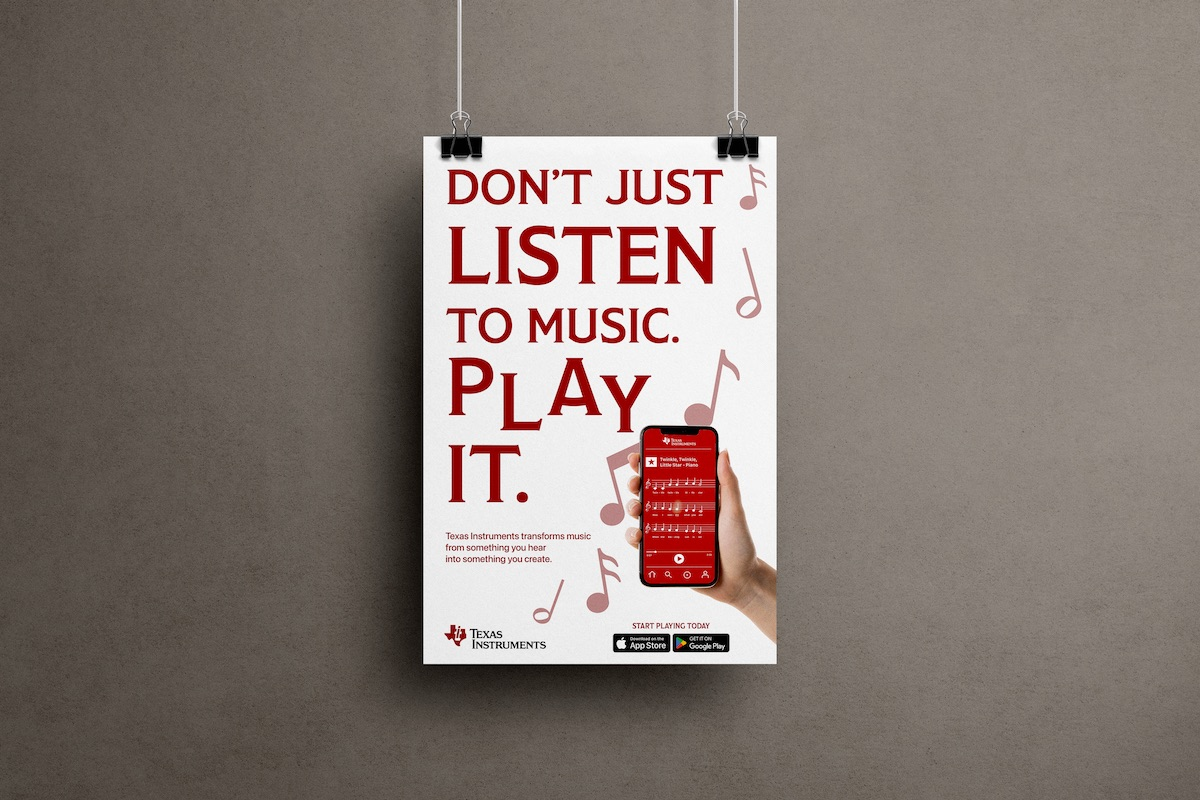
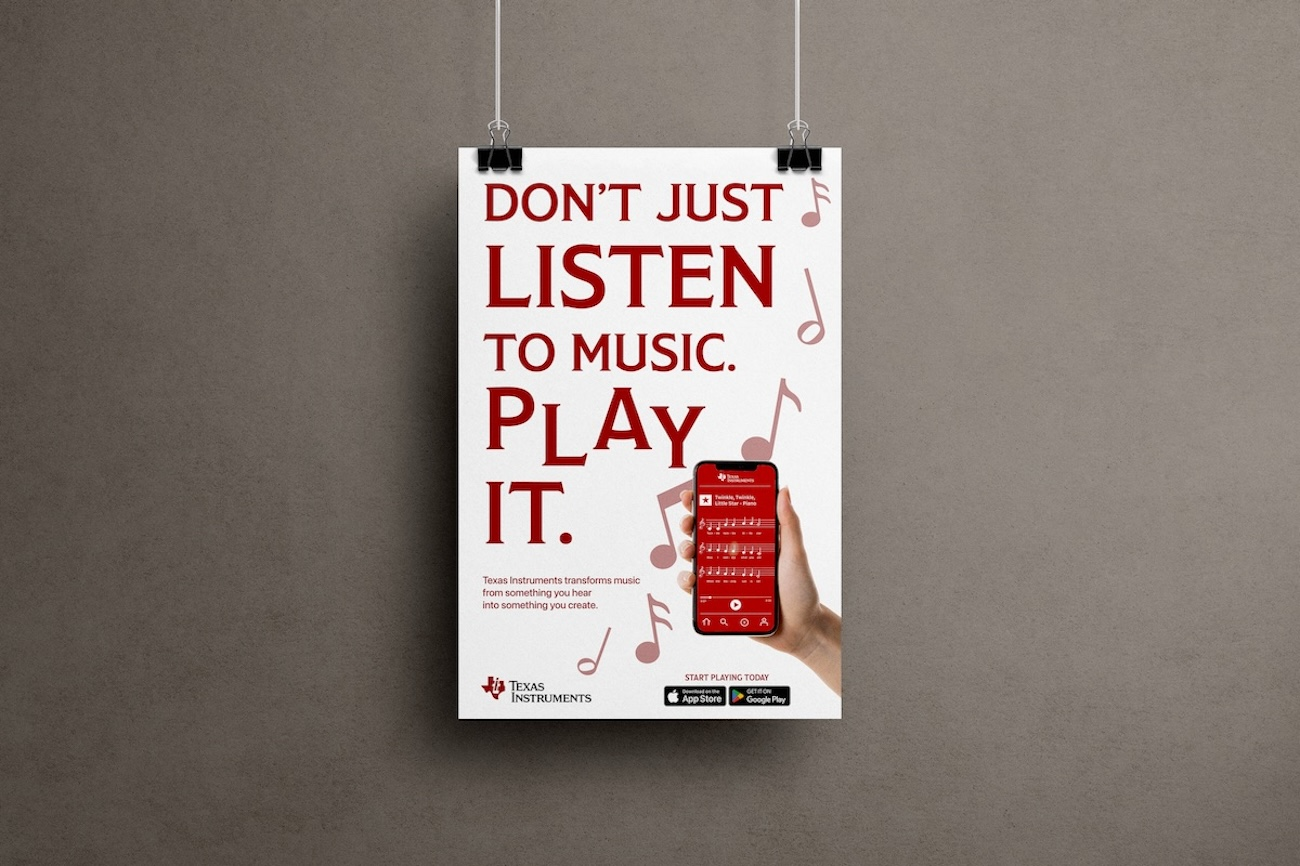
remade alt tags to be more specific

diff --git a/index.html b/index.html
@@ -60,7 +60,7 @@
     <img
       class="nav-mark"
       src="Images/logo-GiuliaGuerini.png"
-      alt="Giulia Guerini logo"
+      alt="Giulia Guerini homepage link"
     >
   </a>
 
@@ -98,31 +98,31 @@
   <img
     class="hero-carousel-image active"
     src="Images/Giulia-portrait.JPG"
-    alt="Giulia Guerini portrait"
+    alt="Portrait of graphic designer Giulia Guerini"
   >
 
   <img
     class="hero-carousel-image"
     src="Images/ti-mockup-main.jpeg"
-    alt="Texas Instruments poster mockup"
+    alt="Texas Instruments SyncPlay campaign poster displayed in a mockup"
   >
 
   <img
     class="hero-carousel-image"
     src="Images/odc-mockup-main-1.jpg"
-    alt="Ottawa Design Club zine mockup"
+    alt="Ottawa Design Club Metamorphosis editorial zine mockup"
   >
 
   <img
     class="hero-carousel-image"
     src="Images/prada-mockup-main.jpeg"
-    alt="The Devil Wears Prada poster mockup"
+    alt="The Devil Wears Prada posterfeaturing a custom typeface"
   >
 
   <img
     class="hero-carousel-image"
     src="Images/rj-mockup-main-1.jpg"
-    alt="Rio de Janeiro brochure mockup"
+    alt="Tri-fold tourism brochure promoting Rio de Janeiro"
   >
 
 </div>
@@ -179,7 +179,7 @@
         <img
           class="project-card-image"
           src="Images/ti-mockup-main.jpeg"
-          alt="Texas Instruments poster mockup"
+          alt="Texas Instruments SyncPlay campaign hero mockup"
         >
 
         <div class="project-bottom-label">
@@ -200,7 +200,7 @@
         <img
           class="project-card-image"
           src="Images/odc-mockup-main.jpeg"
-          alt="Ottawa Design Club zine mockup"
+          alt="Ottawa Design Club Metamorphosis editorial zine mockup"
         >
 
         <div class="project-bottom-label">
@@ -221,7 +221,7 @@
         <img
           class="project-card-image"
           src="Images/prada-mockup-main.jpeg"
-          alt="The Devil Wears Prada poster mockup"
+          alt="The Devil Wears Prada poster featuring a custom typeface"
         >
 
         <div class="project-bottom-label">
@@ -242,7 +242,7 @@
         <img
           class="project-card-image"
           src="Images/rj-mockup-main.jpeg"
-          alt="Rio de Janeiro brochure mockup"
+          alt="Tri-fold tourism brochure promoting Rio de Janeiro"
         >
 
         <div class="project-bottom-label">

diff --git a/odc.html b/odc.html
@@ -57,7 +57,7 @@
   <a class="nav-logo" href="index.html">Giulia Guerini</a>
 
   <a href="index.html" aria-label="Go to homepage">
-    <img class="nav-mark" src="Images/logo-GiuliaGuerini.png" alt="Giulia Guerini logo">
+    <img class="nav-mark" src="Images/logo-GiuliaGuerini.png" alt="Giulia Guerini homepage link">
   </a>
 
   <ul class="nav-links">
@@ -101,7 +101,7 @@
     <img
       class="project-detail-main-image"
       src="Images/odc-mockup-main.jpeg"
-      alt="Ottawa Design Club Zine"
+      alt="Ottawa Design Club Metamorphosis editorial zine mockup"
     >
   </section>
 
@@ -130,19 +130,19 @@
 
   <section class="project-detail-gallery">
     <div class="gallery-panel">
-      <img src="Images/ODC-Mockup-Cover.jpeg" alt="ODC Mockup Cover">
+      <img src="Images/ODC-Mockup-Cover.jpeg" alt="Ottawa Design Club Metamorphosis editorial zine cover mockup">
     </div>
 
     <div class="gallery-panel">
-      <img src="Images/ODC-Mockup-LeaMoreau.jpeg" alt="ODC Mockup Profile 1">
+      <img src="Images/ODC-Mockup-LeaMoreau.jpeg" alt="Ottawa Design Club Metamorphosis editorial zine artist profile mockup Lea Moreau">
     </div>
 
     <div class="gallery-panel">
-      <img src="Images/ODC-Mockup-SophieChen.jpeg" alt="ODC Mockup Profile 2">
+      <img src="Images/ODC-Mockup-SophieChen.jpeg" alt="Ottawa Design Club Metamorphosis editorial zine artist profile mockup Sophie Chen">
     </div>
 
     <div class="gallery-panel">
-      <img src="Images/ODC-Mockup-ThomasBeaumont.jpeg" alt="ODC Mockup Profile 3">
+      <img src="Images/ODC-Mockup-ThomasBeaumont.jpeg" alt="Ottawa Design Club Metamorphosis editorial zine artist profile mockup Thomas Beaumont">
     </div>
   </section>
 

diff --git a/prada.html b/prada.html
@@ -56,7 +56,7 @@
   <a class="nav-logo" href="index.html">Giulia Guerini</a>
 
   <a href="index.html" aria-label="Go to homepage">
-    <img class="nav-mark" src="Images/logo-GiuliaGuerini.png" alt="Giulia Guerini logo">
+    <img class="nav-mark" src="Images/logo-GiuliaGuerini.png" alt="Giulia Guerini homepage link">
   </a>
 
   <ul class="nav-links">
@@ -100,7 +100,7 @@
     <img
       class="project-detail-main-image"
       src="Images/prada-mockup-main.jpeg"
-      alt="The Devil Wears Prada Poster"
+      alt="The Devil Wears Prada promotional poster with custom typeface mockup"
     >
   </section>
 
@@ -129,19 +129,19 @@
 
   <section class="project-detail-gallery">
     <div class="gallery-panel">
-      <img src="Images/prada-type.jpeg" alt="The Devil Wears Prada custom typeface">
+      <img src="Images/prada-type.jpeg" alt="The Devil Wears Prada custom typeface character set">
     </div>
 
     <div class="gallery-panel">
-      <img src="Images/prada-flyer.jpeg" alt="The Devil Wears Prada flyer">
+      <img src="Images/prada-flyer.jpeg" alt="The Devil Wears Prada promotional flyer mockup">
     </div>
 
     <div class="gallery-panel">
-      <img src="Images/prada-ticket.jpeg" alt="The Devil Wears Prada ticket">
+      <img src="Images/prada-ticket.jpeg" alt="The Devil Wears Prada ticket design mockup">
     </div>
 
     <div class="gallery-panel">
-      <img src="Images/prada-bag.jpeg" alt="The Devil Wears Prada paper bag">
+      <img src="Images/prada-bag.jpeg" alt="The Devil Wears Prada paper bag mockup">
     </div>
   </section>
 

diff --git a/rio.html b/rio.html
@@ -56,7 +56,7 @@
   <a class="nav-logo" href="index.html">Giulia Guerini</a>
 
   <a href="index.html" aria-label="Go to homepage">
-    <img class="nav-mark" src="Images/logo-GiuliaGuerini.png" alt="Giulia Guerini logo">
+    <img class="nav-mark" src="Images/logo-GiuliaGuerini.png" alt="Giulia Guerini homepage link">
   </a>
 
   <ul class="nav-links">
@@ -100,7 +100,7 @@
     <img
       class="project-detail-main-image"
       src="Images/rj-mockup-main.jpeg"
-      alt="Rio de Janeiro Brochure"
+      alt="Tri-fold tourism brochure promoting Rio de Janeiro mockup"
     >
   </section>
 
@@ -131,19 +131,19 @@
 
   <section class="project-detail-gallery">
     <div class="gallery-panel">
-      <img src="Images/rj-flyer-mockup-1.jpeg" alt="Rio de Janeiro Flyer Mockup 1">
+      <img src="Images/rj-flyer-mockup-1.jpeg" alt="Tri-fold tourism brochure promoting Rio de Janeiro mockup 1 front">
     </div>
 
     <div class="gallery-panel">
-      <img src="Images/rj-flyer-mockup-2.jpeg" alt="Rio de Janeiro Flyer Mockup 2">
+      <img src="Images/rj-flyer-mockup-2.jpeg" alt="Tri-fold tourism brochure promoting Rio de Janeiro mockup 2 back">
     </div>
 
     <div class="gallery-panel">
-      <img src="Images/rj-flyer-mockup-3.jpeg" alt="Rio de Janeiro Flyer Mockup 3">
+      <img src="Images/rj-flyer-mockup-3.jpeg" alt="Tri-fold tourism brochure promoting Rio de Janeiro mockup 3 front and back">
     </div>
 
     <div class="gallery-panel">
-      <img src="Images/rj-flyer-mockup-4.jpeg" alt="Rio de Janeiro Flyer Mockup 4">
+      <img src="Images/rj-flyer-mockup-4.jpeg" alt="Tri-fold tourism brochure promoting Rio de Janeiro mockup 4 front">
     </div>
   </section>
 

diff --git a/texas-instruments.html b/texas-instruments.html
@@ -57,7 +57,7 @@
   <a class="nav-logo" href="index.html">Giulia Guerini</a>
 
   <a href="index.html" aria-label="Go to homepage">
-    <img class="nav-mark" src="Images/logo-GiuliaGuerini.png" alt="Giulia Guerini logo">
+    <img class="nav-mark" src="Images/logo-GiuliaGuerini.png" alt="Giulia Guerini homepage link">
   </a>
 
   <ul class="nav-links">
@@ -101,7 +101,7 @@
     <img
       class="project-detail-main-image"
       src="Images/ti-mockup-main.jpeg"
-      alt="Texas Instruments Poster Mockup"
+      alt="Texas Instruments SyncPlay campaign hero mockup"
     >
   </section>
 
@@ -130,19 +130,19 @@
 
   <section class="project-detail-gallery">
     <div class="gallery-panel">
-      <img src="Images/ti-poster.jpeg" alt="TI Poster">
+      <img src="Images/ti-poster.jpeg" alt="Texas Instruments SyncPlay street poster mockup">
     </div>
 
     <div class="gallery-panel">
-      <img src="Images/ti-landing-page.jpeg" alt="TI Landing Page">
+      <img src="Images/ti-landing-page.jpeg" alt="Texas Instruments SyncPlay landing page mockup">
     </div>
 
     <div class="gallery-panel">
-      <img src="Images/ti-social.jpeg" alt="TI Social Media">
+      <img src="Images/ti-social.jpeg" alt="Texas Instruments SyncPlay social media posts for Instagram and Facebook mockup">
     </div>
 
     <div class="gallery-panel">
-      <img src="Images/ti-banner.jpeg" alt="TI Web Banner">
+      <img src="Images/ti-banner.jpeg" alt="Texas Instruments SyncPlay web banner mockup on Youtube">
     </div>
   </section>
 

diff --git a/projects.html b/projects.html
@@ -61,7 +61,7 @@
     <img
       class="nav-mark"
       src="Images/logo-GiuliaGuerini.png"
-      alt="Giulia Guerini logo"
+      alt="Giulia Guerini homepage link"
     >
   </a>
 
@@ -112,7 +112,7 @@
       </a>
 
       <a class="project-card" href="texas-instruments.html" data-category="marketing">
-        <img class="project-card-image" src="Images/ti-mockup-main.jpeg" alt="Texas Instruments poster mockup">
+        <img class="project-card-image" src="Images/ti-mockup-main.jpeg" alt="Texas Instruments SyncPlay campaign hero mockup">
         <div class="project-bottom-label">
           <span class="project-role-tag">Marketing</span>
         </div>
@@ -124,7 +124,7 @@
       </a>
 
       <a class="project-card" href="odc.html" data-category="editorial">
-        <img class="project-card-image" src="Images/odc-mockup-main.jpeg" alt="Ottawa Design Club zine mockup">
+        <img class="project-card-image" src="Images/odc-mockup-main.jpeg" alt="Ottawa Design Club Metamorphosis editorial zine mockup">
         <div class="project-bottom-label">
           <span class="project-role-tag">Editorial</span>
         </div>
@@ -148,7 +148,7 @@
       </a>
 
       <a class="project-card" href="rio.html" data-category="editorial">
-        <img class="project-card-image" src="Images/rj-mockup-main.jpeg" alt="Rio de Janeiro brochure mockup">
+        <img class="project-card-image" src="Images/rj-mockup-main.jpeg" alt="Tri-fold tourism brochure promoting Rio de Janeiro">
         <div class="project-bottom-label">
           <span class="project-role-tag">Print Editorial</span>
         </div>
@@ -160,7 +160,7 @@
       </a>
 
       <a class="project-card" href="prada.html" data-category="typography">
-        <img class="project-card-image" src="Images/prada-mockup-main.jpeg" alt="The Devil Wears Prada poster mockup">
+        <img class="project-card-image" src="Images/prada-mockup-main.jpeg" alt="The Devil Wears Prada promotional poster with custom typeface mockup">
         <div class="project-bottom-label">
           <span class="project-role-tag">Typography</span>
         </div>

diff --git a/about.html b/about.html
@@ -61,7 +61,7 @@
     <img
       class="nav-mark"
       src="Images/logo-GiuliaGuerini.png"
-      alt="Giulia Guerini logo"
+      alt="Giulia Guerini homepage link"
     >
   </a>
 

diff --git a/brasilidade.html b/brasilidade.html
@@ -57,7 +57,7 @@
   <a class="nav-logo" href="index.html">Giulia Guerini</a>
 
   <a href="index.html" aria-label="Go to homepage">
-    <img class="nav-mark" src="Images/logo-GiuliaGuerini.png" alt="Giulia Guerini logo">
+    <img class="nav-mark" src="Images/logo-GiuliaGuerini.png" alt="Giulia Guerini homepage link">
   </a>
 
   <ul class="nav-links">

diff --git a/contact.html b/contact.html
@@ -60,7 +60,7 @@
     <img
       class="nav-mark"
       src="Images/logo-GiuliaGuerini.png"
-      alt="Giulia Guerini logo"
+      alt="Giulia Guerini homepage link"
     >
   </a>
 

diff --git a/timeless.html b/timeless.html
@@ -56,7 +56,7 @@
   <a class="nav-logo" href="index.html">Giulia Guerini</a>
 
   <a href="index.html" aria-label="Go to homepage">
-    <img class="nav-mark" src="Images/logo-GiuliaGuerini.png" alt="Giulia Guerini logo">
+    <img class="nav-mark" src="Images/logo-GiuliaGuerini.png" alt="Giulia Guerini homepage link">
   </a>
 
   <ul class="nav-links">